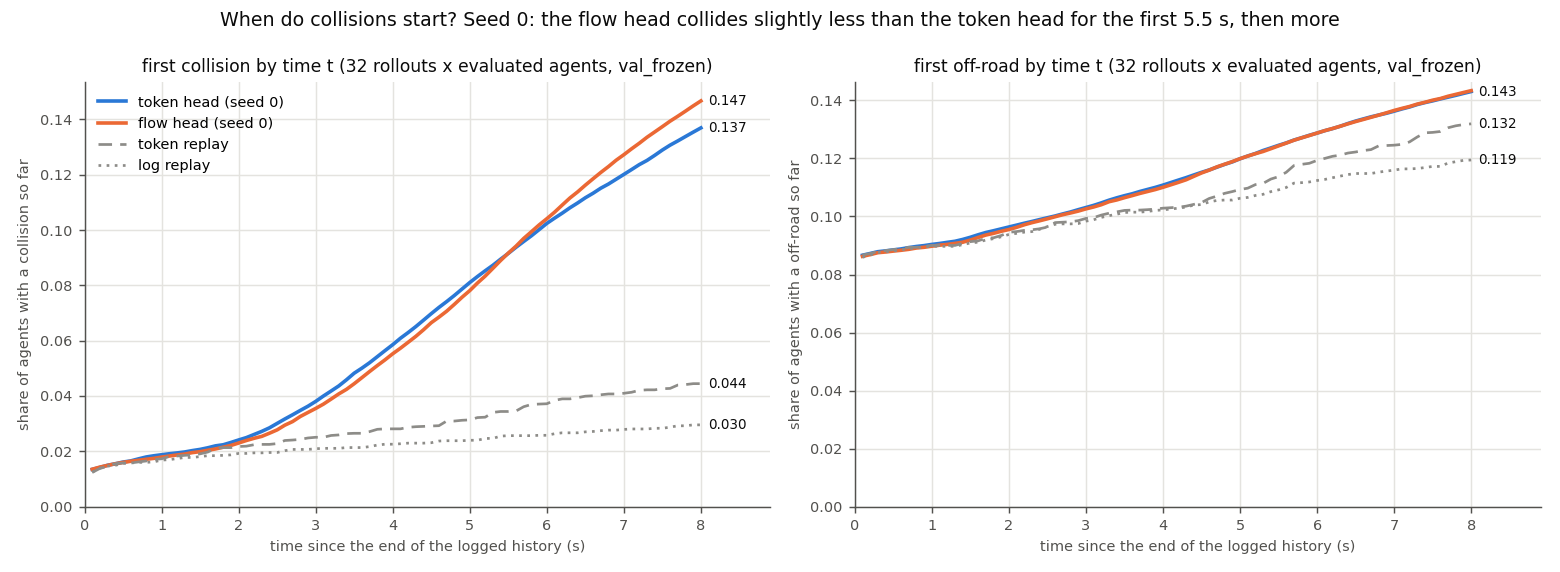
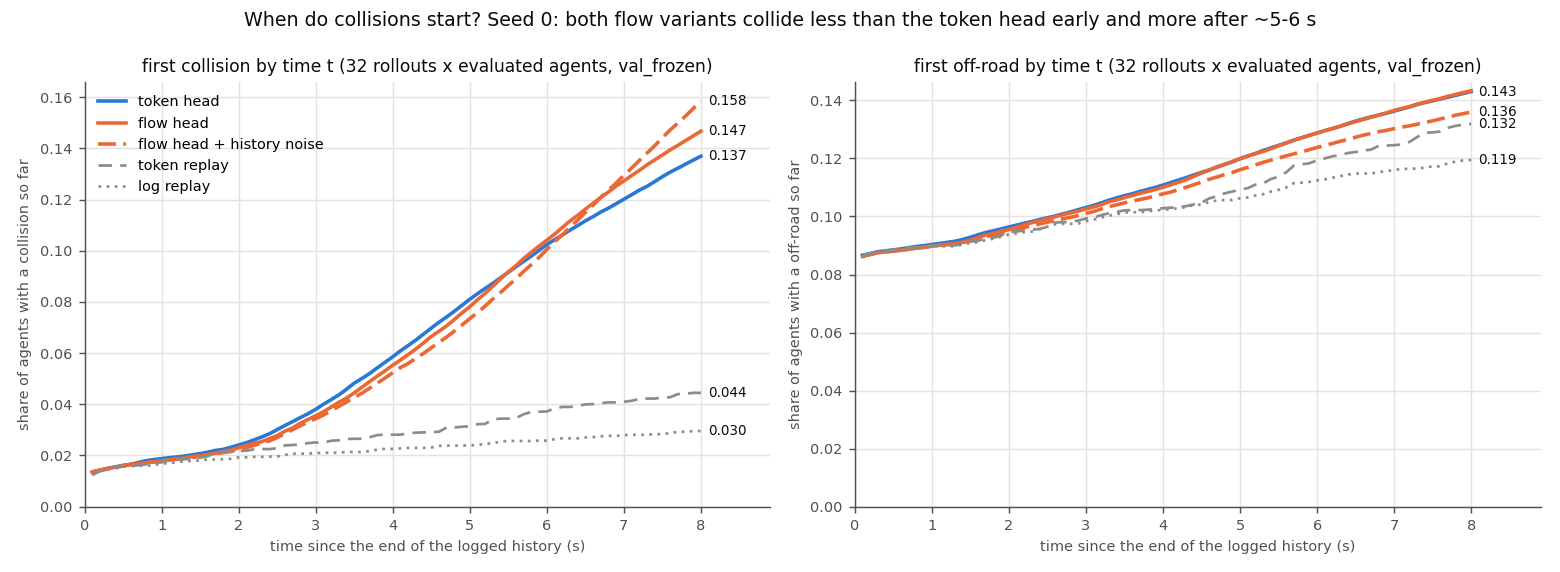
figures: add history-noise flow to collision timing

diff --git a/src/tokens_vs_flows/figures.py b/src/tokens_vs_flows/figures.py
@@ -268,13 +268,18 @@ def event_timing(runs: Dict[str, Tuple[List[Path], str]], out: Path, title: str 
     (runs/<id>/event_timing.json from eval/event_timing.py), one line per policy, seed mean if several runs.
 
     runs: {"token head": ([run dirs], "token"), "log replay": ([run dir], "ref"), ...}; kind "token" | "flow" takes
-    the arm colour, references are grey with a dash pattern each.
+    the arm colour, a variant such as "flow_noise" the arm colour dashed, references are grey with a dash pattern each.
     """
     fig, axes = plt.subplots(1, 2, figsize=(12, 4.4))
     dashes = iter([(0, (5, 3)), (0, (1, 2)), (0, (6, 2, 1, 2))])
     styles = {}
-    for name, (dirs, kind) in runs.items():
-        styles[name] = (ARM_COLORS[kind], "-", 2.0) if kind in ARM_COLORS else ("#8d8c88", next(dashes), 1.5)
+    for name, (dirs, kind) in runs.items():  # kind "flow_noise": a variant of an arm, its colour dashed
+        if kind in ARM_COLORS:
+            styles[name] = (ARM_COLORS[kind], "-", 2.0)
+        elif kind.split("_")[0] in ARM_COLORS:
+            styles[name] = (ARM_COLORS[kind.split("_")[0]], (0, (5, 2)), 2.0)
+        else:
+            styles[name] = ("#8d8c88", next(dashes), 1.5)
     for ax, key, label in zip(axes, ["collision", "offroad"], ["collision", "off-road"]):
         _style(ax)
         ax.xaxis.grid(True, color=GRID, lw=0.8)
